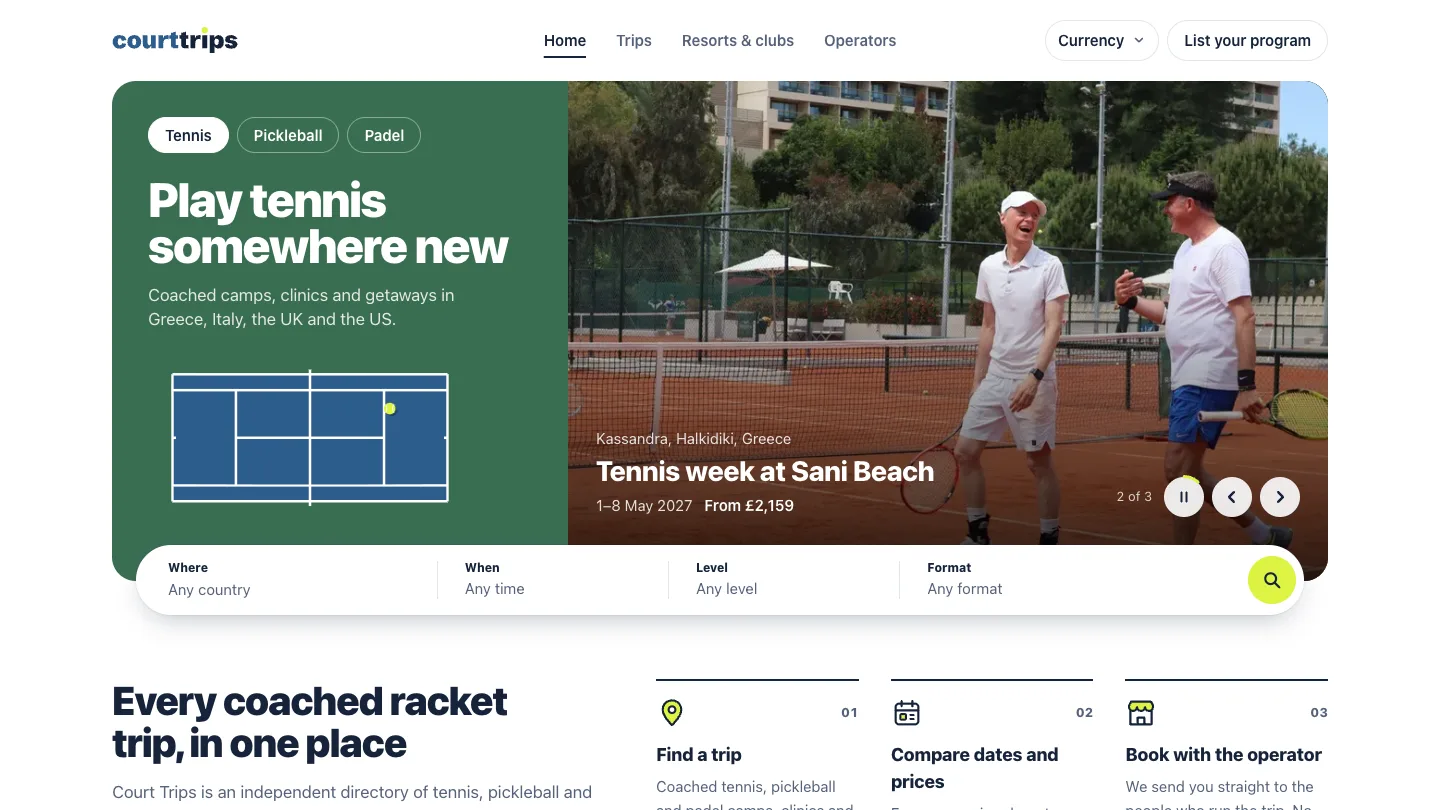
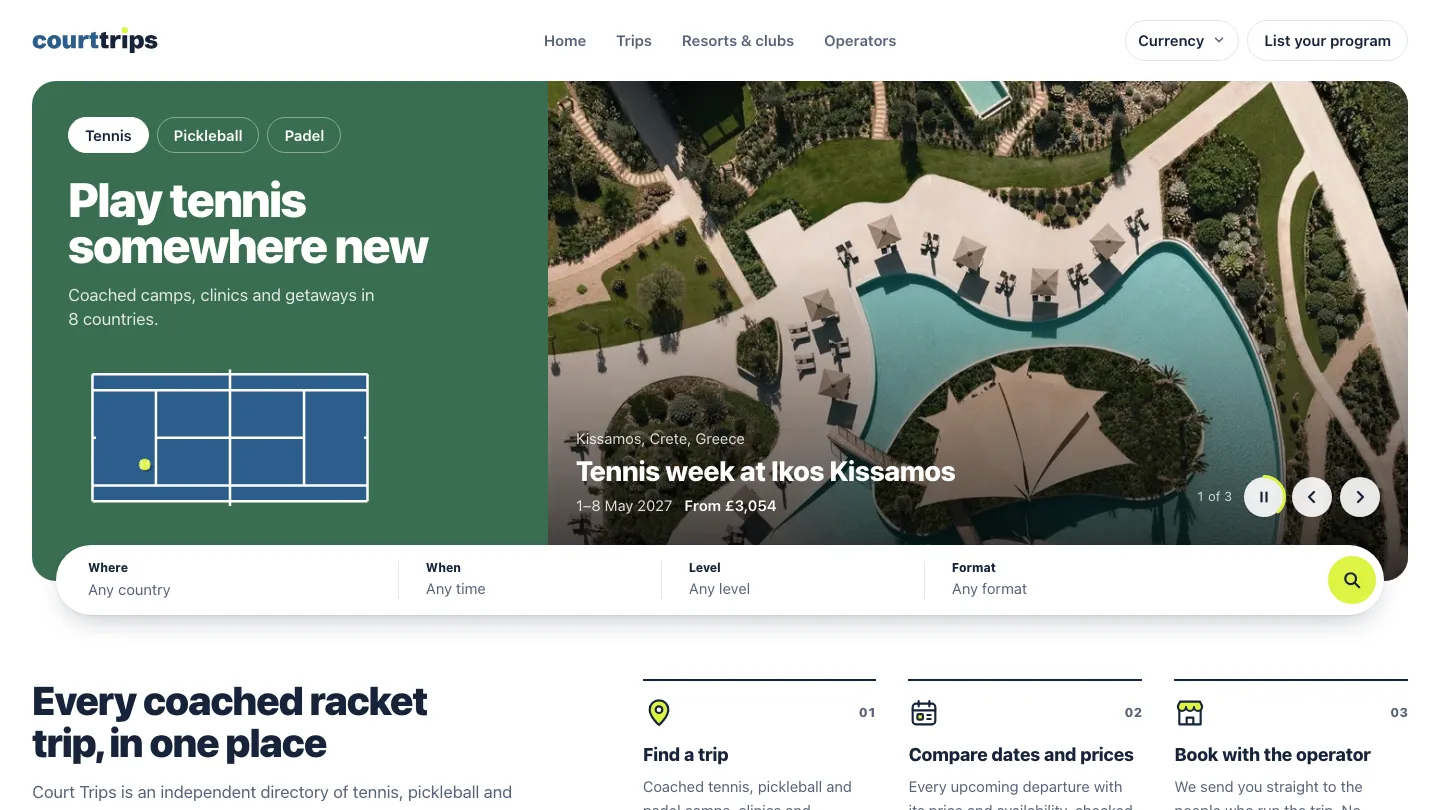
Rewrite the Court Trips write-up and mark it live
- Tell the story of the trip schema, the agent harvest and where review sits
- Add the live link and fresh screenshots from courttrips.com
- Lead with the Airbnb for racket sports vacations hook

diff --git a/content/products/court-trips.md b/content/products/court-trips.md
@@ -1,26 +1,85 @@
 ---
 title: "Court Trips"
-description: "A directory of tennis, pickleball, and padel camps, clinics, and getaways."
-status: "wip"
+description: "Airbnb for racket sports vacations: tennis, padel and pickleball trips in one place."
+url: "https://www.courttrips.com"
+status: "live"
 tags: ["Racket sports travel"]
 screenshots:
   - src: "/images/products/court-trips/home.webp"
-    alt: "Court Trips home page with a sport picker, a featured tennis week in Greece, and a search bar for country, dates, level and format"
+    alt: "Court Trips home page with a sport picker, a tennis court drawing, a featured tennis week in Crete, and a search bar for country, dates, level and format"
     caption: "The home page. Pick a sport, then search by country, dates, level and format."
   - src: "/images/products/court-trips/trips.webp"
-    alt: "Court Trips listing page showing nine tennis trips as cards with location, price and departure dates"
+    alt: "Court Trips listing of 20 tennis trips as cards with location, price and departure dates; one card shows a court drawing in place of a photo"
     caption: "Every trip with its price and upcoming departures."
   - src: "/images/products/court-trips/program.webp"
     alt: "Court Trips page for a tennis camp at Lake Garda with photos, coaching hours, group size, court surface and price"
-    caption: "A trip page, with the details you need before you contact the organizer."
+    caption: "A trip page, with the details you need before you contact the organiser."
 ---
 
-## Why I built it
+The idea came from two holidays. I went to Phuket on a tennis-themed trip, and on an earlier visit to Bali I'd stumbled onto tennis and padel clubs I hadn't planned for. It turned out this wasn't just me. [Travelling to play](https://www.bbc.com/travel/article/20250804-pickleball-to-tennis-why-everyones-travelling-to-hit-a-ball) is a real and growing trend across tennis, padel and pickleball. The trips themselves, though, are scattered across club sites, resort pages and word of mouth. Court Trips puts them in one place.
 
-I came back from a tennis vacation and wanted to book the next one straight away. That turned out to be harder than it sounds. The good camps and clinics are scattered across club sites, resort pages, and whatever another player happens to recommend.
+At La Cafe, agents helped build the business. At Court Trips, an agent also works inside the product. It reads operator sites and drafts every listing, and I review each one before it goes live.
 
-## What it does
+## The format came first
 
-Court Trips puts camps, clinics, and getaways for tennis, pickleball, and padel side by side so you can compare them. I’m building it with Claude Code.
+Before an agent read a single page, I wrote down what a trip is. Every listing follows one schema, now at version 2.2:
 
-Once you find a trip you like, I send you to the organizer. They know the dates, the availability, and the booking terms far better than I do. I want Court Trips to be good at one thing, which is helping you find the trip.
+- **What and who:** sport, category (camp, clinic or social getaway), level, organiser, coaches and languages.
+- **Where:** country, region, venue and coordinates.
+- **When:** each departure with its own dates and price, or a schedule note such as "Held each November; 2027 dates to be announced".
+- **How much:** a price range, the currency, and what's included.
+- **On court:** surface, total coaching hours, player-to-coach ratio, group size, and UTR, NTRP or DUPR ranges.
+
+The schema carries its own quality rules too. A listing missing a title, organiser, sport, country, level or dates is flagged for review. Each one records the page it came from, when it was last seen, and a confidence score.
+
+To show the agent what good looks like, I hand-checked 27 programs from a few existing retreat lists: three per sport for each of the three trip types.
+
+## An agent that reads, not guesses
+
+The agent's instructions sit in one file, which does the job La Cafe's recipe files did. Its rules are short:
+
+- **Only what the page says.** If the page doesn't say it, the field stays empty. Nothing is filled in from general knowledge.
+- **One program, one listing.** Different dates of the same trip are departures, not separate trips.
+- **Fixed answers.** Surface, level and similar fields must use the set options.
+- **Plain descriptions.** One to three sentences, with no marketing adjectives.
+
+> The most useful rule I gave the agent was to leave a field empty rather than guess.
+
+Claude Code started by drawing up 82 source pages across North America, Europe, Southeast Asia, and the Maldives and Caribbean, with an estimate of what each should yield. It also flagged the gaps: there are no padel trips in North America, American pickleball would swamp everything else unless capped, and Maldives programs are mostly one-off visits by touring pros.
+
+The harvest then runs in three steps:
+
+1. **Fetch.** A plain script downloads every source page and notes which ones have changed. No AI is involved, so it costs nothing.
+2. **Read.** Claude Code reads only the changed pages and writes one structured file per program.
+3. **Import.** The files land in the database as drafts. I review each one in an admin area and publish it by hand.
+
+The first harvest produced about 100 listings. Around 15 pages couldn't be read, mostly sites built in JavaScript, and the agent skipped them rather than guess.
+
+## Building it with Claude Code
+
+This was orchestrated, not vibe-coded. I made the product decisions first: the listing format, the stack, the layout and the visual direction. Claude Code had to ask before changing the format. The backend was planned in four phases (listings in Postgres, click tracking, operator submissions and an admin area), and each one landed as its own pull request with a preview deploy.
+
+Every deploy passes an automated check before it goes live. It loads the key pages, every trip page and every photo. If anything fails, the previous version keeps serving.
+
+The moments I stepped in taught me the most:
+
+- **Broken photos.** The first deploy showed broken images because the photos had never been uploaded. Rather than patch it, I asked for a lasting fix: proper photo storage, plus a check that blocks any deploy that would break them. That became a standing rule for the project: build an operational MVP, not a demo.
+- **Lost clicks.** The first click tracking wrote to a file. That works on a laptop and fails silently on Vercel, so every click was lost until it moved to a database.
+- **Confusing cards.** One card per departure confused first-time visitors. Now it's one card per trip, with its upcoming dates underneath.
+- **Off-by-one dates.** One operator's pages showed dates a day early. The agent's rules now prefer the dates in that operator's booking links.
+
+## The look
+
+The reference was Airbnb's home page, with venue photos leading. The signature element is a court drawn to scale that switches between tennis, padel and pickleball, and court-surface colours run through the rest of the site. The type is Schibsted Grotesk, and an optic-yellow accent is saved for the main buttons. If a trip's photo fails to load, the site shows that sport's court instead of a broken image.
+
+The wordmark is a lowercase "courttrips", where the dot on the "i" is a lime ball that could belong to any of the three sports. The icon took the most rounds. A paper plane never looked right and was dropped. A tennis-court drawing would have left out padel and pickleball. An all-lime globe looked like a slime ball. It ended up as a "ct" monogram with a small globe for the ball. A script generates every logo file, so any version can be rebuilt.
+
+## Where it stands
+
+Court Trips lists 51 trips with 150 departures across 17 countries, split fairly evenly between the three sports. Spain leads with 15. Visitors can search, see prices in their own currency, check Google and Tripadvisor ratings, and follow a link to the organiser to book. Operators can submit their own programs.
+
+There's no booking on the site, and that's deliberate. Organisers know their dates, availability and terms better than I do, so Court Trips sends you to them. It's meant to be good at one thing: helping you find the trip.
+
+Next is switching on the refresh. A script already runs fetch, read and import in one go and emails me a summary. Once it's scheduled every three days, safe changes to existing trips will go live on their own, and new trips will come to me as drafts. The directory keeps itself current, and I stay the editor.
+
+After that comes a chat agent built on the same data. Every trip already has its dates, prices, levels, court surfaces and coaching hours in one format, so a visitor could simply ask "Which padel camps in Spain take beginners in April?" and get an answer straight from the listings.
